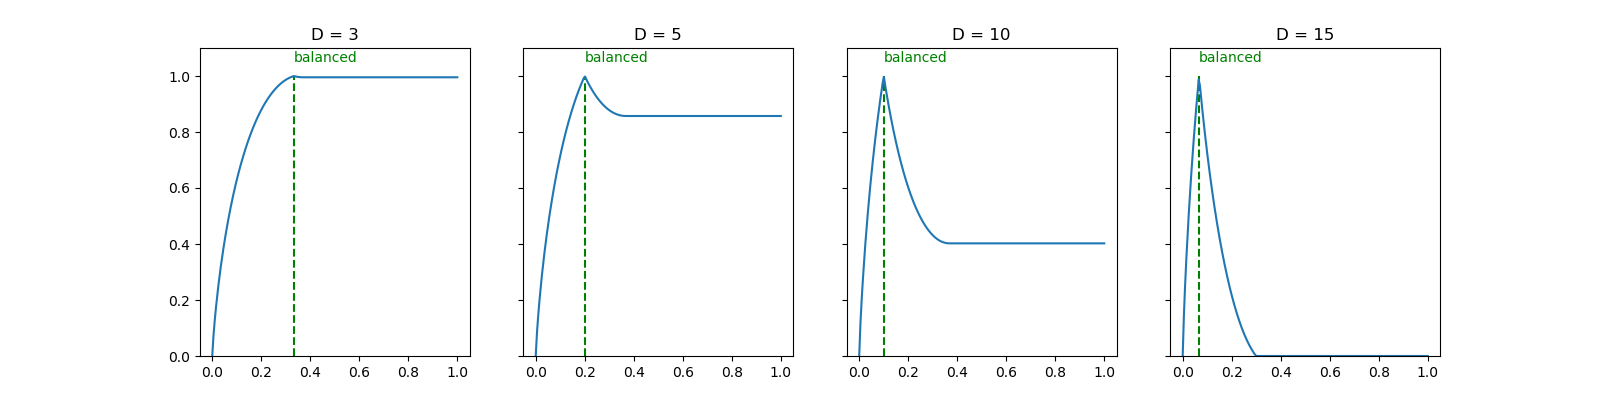
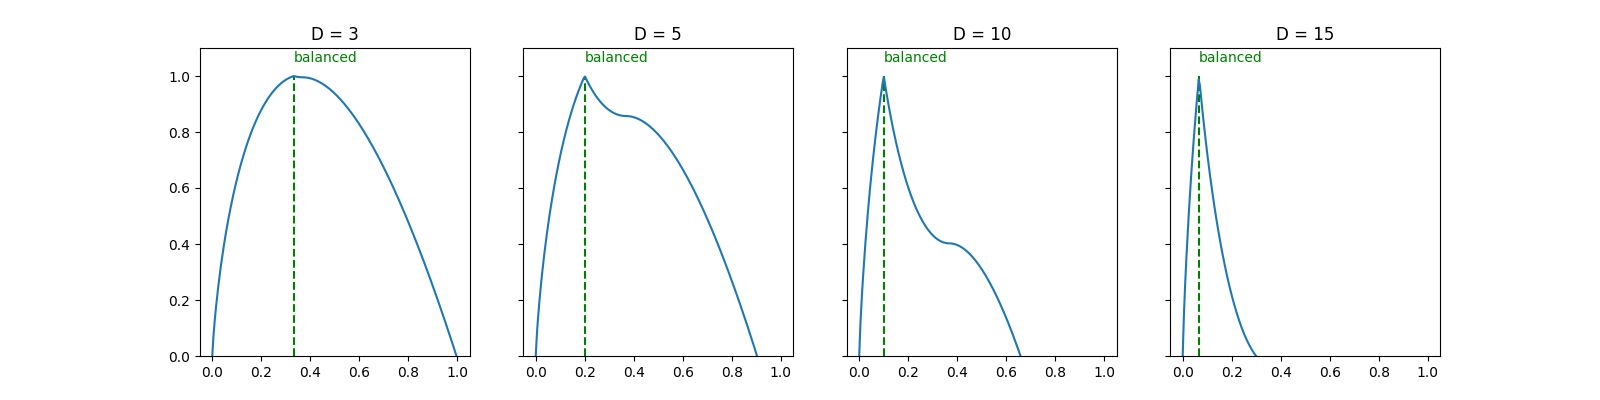
demo alt scaling

diff --git a/99_article/99_visuals/extra_plots/make_scaling.py b/99_article/99_visuals/extra_plots/make_scaling.py
@@ -4,7 +4,8 @@ import matplotlib.pyplot as plt
 
 
 # helper
-def abs_scaling(x, c):
+"""
+def scaling(x, c):
 
     x = np.minimum(x, 1 / np.exp(1))
     temp = np.array([y * np.log(y) if y > 0 else 0 for y in x])
@@ -13,20 +14,25 @@ def abs_scaling(x, c):
     out = 1 - np.abs((1 - temp))
 
     return out
+"""
 
+def scaling(x, num_classes):
+    c = 1 / np.exp(1)
 
-def new_scaling(x, num_classes):
+    out = np.zeros_like(x)
+    for i, y in enumerate(x):
+        if y == 0:
+            pass
+        else:
 
-    out = []
-    for y in x:
-        if y <= 1 / np.exp(1):
+            if y <= c:
+                out[i] = y * np.log(y)
+            else:
+                out[i] = 2 * c * np.log(c) - y * np.log(y)
 
-
-    x = np.minimum(x, 1 / np.exp(1))
-    temp = np.array([y * np.log(y) if y > 0 else 0 for y in x])
-    temp /= ((1/c) * np.log((1/c)))
-    temp[temp > 2] = 2
-    out = 1 - np.abs((1 - temp))
+    out /= ((1 / num_classes) * np.log((1 / num_classes)))
+    #temp[temp > 2] = 2
+    out = 1 - np.abs((1 - out))
 
     return out
 
@@ -38,10 +44,10 @@ def main():
     x = np.linspace(start=0, stop=1, num=200)
 
     # scaling coefs
-    abs_c3 = abs_scaling(x, c=3)
-    abs_c5 = abs_scaling(x, c=5)
-    abs_c10 = abs_scaling(x, c=10)
-    abs_c15 = abs_scaling(x, c=15)
+    abs_c3 = scaling(x, 3)
+    abs_c5 = scaling(x, 5)
+    abs_c10 = scaling(x, 10)
+    abs_c15 = scaling(x, 15)
 
     fig, axarr = plt.subplots(ncols=4, sharey=True, figsize=(16, 4))
 
@@ -74,6 +80,7 @@ def main():
     plt.title('D = 15')
 
     plt.savefig('scaling.png')
+    plt.show()
 
 
 if __name__ == "__main__":
